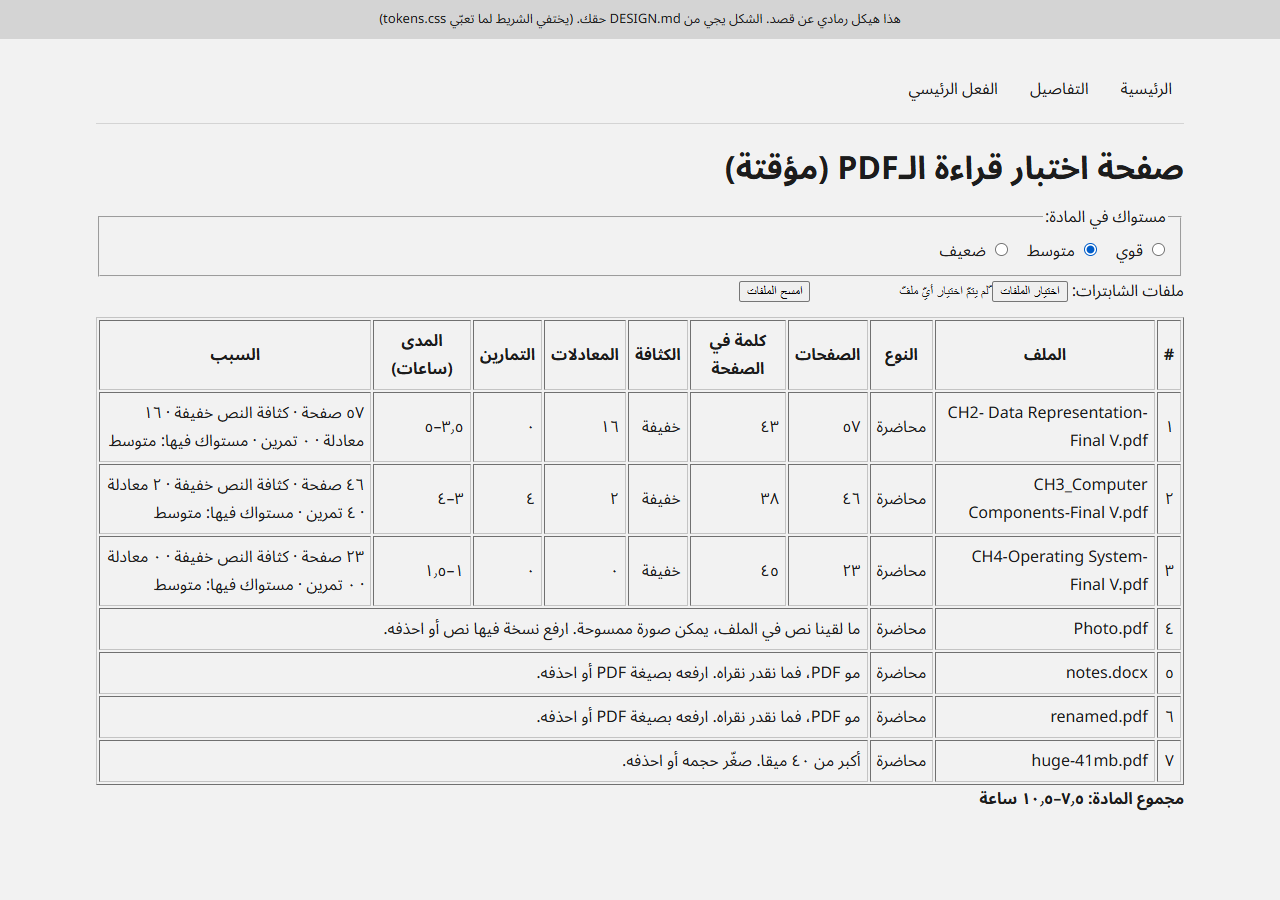
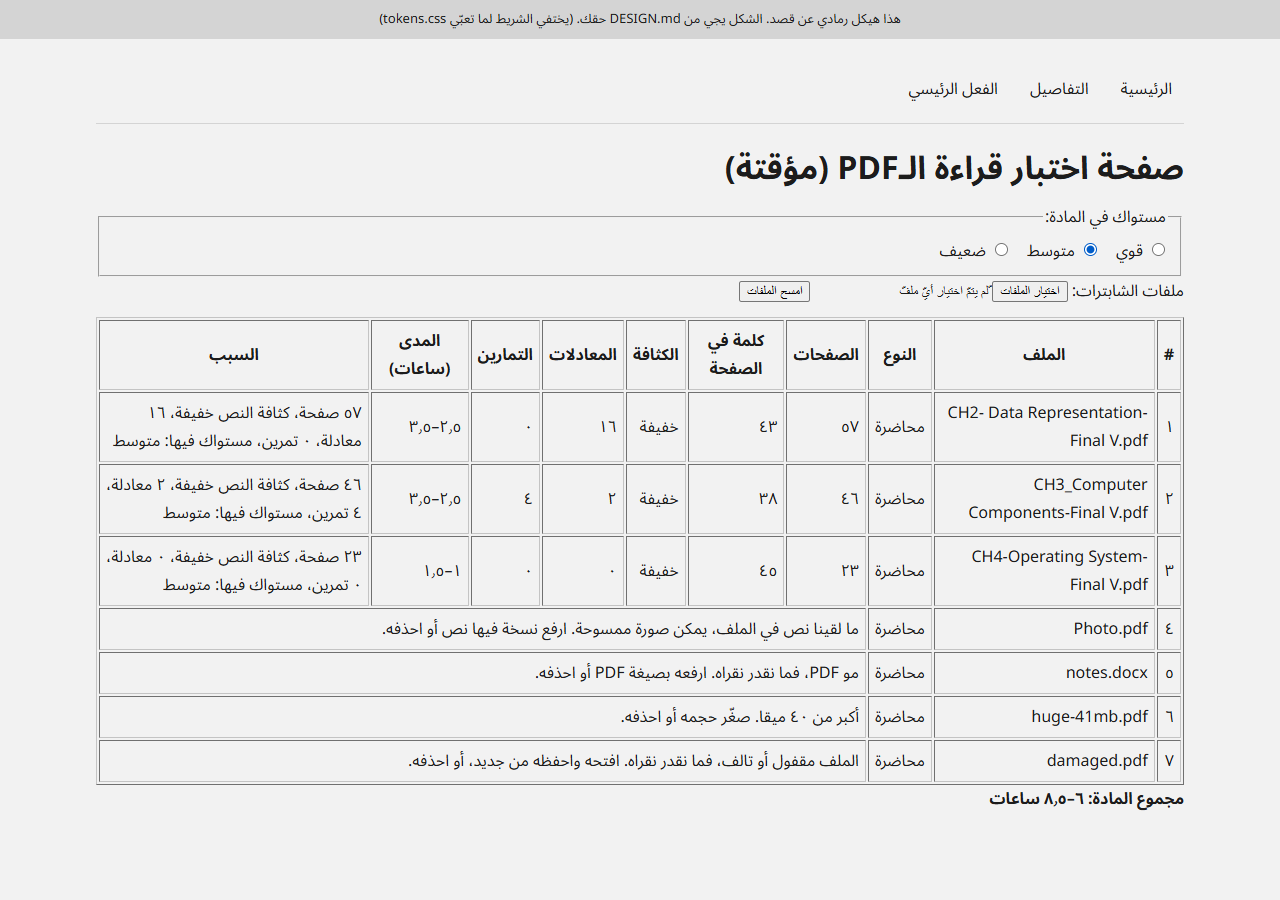
Version 1.2: Comma separator, locked-PDF message, exercise-file rule
- reason and §8 tooltip use «،» instead of «·» (next to a number the dot
  looks like the Arabic zero); mock.json reasons and AGENT_BRIEF example updated
- locked or damaged PDFs get their own message (strings.js, HANDOFF.md §4 and §8)
- exercise-file rule: «ex» only at the start of the name or as a whole word,
  so index.pdf no longer matches; tests for both cases
- CLAUDE.md: tag and push every version

diff --git a/web/src/lib/strings.js b/web/src/lib/strings.js
@@ -10,9 +10,7 @@ export const FILE_ERROR = {
   not_pdf: 'مو PDF، فما نقدر نقراه. ارفعه بصيغة PDF أو احذفه.',
   too_big: 'أكبر من ٤٠ ميقا. صغّر حجمه أو احذفه.',
   no_text: 'ما لقينا نص في الملف، يمكن صورة ممسوحة. ارفع نسخة فيها نص أو احذفه.',
-  // A damaged or password-protected PDF has no text of its own in §8 yet.
-  // Until it does, it uses the §8 "file error under the field" text.
-  unreadable: 'فيه ملف ما نقدر نقراه. أعد رفعه أو احذفه، وبعدها احفظ.',
+  unreadable: 'الملف مقفول أو تالف، فما نقدر نقراه. افتحه واحفظه من جديد، أو احذفه.', // password-protected or damaged
 };
 
 // §8: the loading text. {ن} is the number of files; the noun follows Arabic number agreement.
@@ -20,8 +18,9 @@ export const loadingText = (count, countText) =>
   `نقرأ ${countText} ${count >= 3 && count <= 10 ? 'ملفات' : 'ملف'} ونحسب وقت مذاكرتك...`;
 
 // The reason shown with each chapter estimate (same shape as mock.json and the §8 tooltip lines).
+// Parts are separated with «،», never a middle dot: next to a number the dot looks like the Arabic zero «٠».
 export const reasonText = ({ pages, density, equations, exercises, level }) =>
-  `${pages} صفحة · كثافة النص ${DENSITY_LABEL[density]} · ${equations} معادلة · ${exercises} تمرين · مستواك فيها: ${LEVEL_LABEL[level]}`;
+  `${pages} صفحة، كثافة النص ${DENSITY_LABEL[density]}، ${equations} معادلة، ${exercises} تمرين، مستواك فيها: ${LEVEL_LABEL[level]}`;
 
 export const HOURS_UNIT = (hi) => (hi > 10 ? 'ساعة' : 'ساعات');
 

diff --git a/web/src/lib/pdf.test.js b/web/src/lib/pdf.test.js
@@ -40,10 +40,25 @@ describe('checkFile', () => {
 
 describe('chapterKind', () => {
   it('marks exercise files by name', () => {
-    expect(chapterKind('exercises-sheet.pdf')).toBe('exercises');
-    expect(chapterKind('HW3.pdf')).toBe('exercises');
-    expect(chapterKind('تمارين الفصل ٢.pdf')).toBe('exercises');
-    expect(chapterKind('chapter1.pdf')).toBe('lecture');
+    for (const name of [
+      'ex1.pdf',
+      'exercises.pdf',
+      'hw2.pdf',
+      'sheet3.pdf',
+      'تمارين.pdf',
+      'exercises-sheet.pdf',
+      'HW3.pdf',
+      'تمارين الفصل ٢.pdf',
+      'ch2-ex3.pdf', // «ex» as a whole word in the middle
+      'Ch2 EX.pdf',
+    ]) {
+      expect(chapterKind(name), name).toBe('exercises');
+    }
+  });
+  it('does not mark «ex» inside another word', () => {
+    for (const name of ['index.pdf', 'chapter1.pdf', 'lexical-analysis.pdf', 'Complex Numbers.pdf']) {
+      expect(chapterKind(name), name).toBe('lecture');
+    }
   });
 });
 

diff --git a/web/src/lib/pdf.js b/web/src/lib/pdf.js
@@ -18,8 +18,9 @@ const FRACTION = /[0-9٠-٩]\s*\/\s*[0-9٠-٩]/;
 const EXERCISE_HEADING =
   /^(?:exercises?|examples?|problems?|(?:ال)?(?:تمرين|تمارين|مثال|أمثلة|سؤال|أسئلة))(?=$|[\s\d٠-٩:.)\-–])/i;
 
-// A file whose name matches this is an exercise file (HANDOFF.md §7 rule 6).
-const EXERCISE_FILE_NAME = /ex|hw|sheet|تمار/i;
+// An exercise file (HANDOFF.md §7 rule 6): the name starts with «ex» (ex1, exercises), has «ex» as a
+// whole word (ch2-ex3: not between two letters, so index.pdf does not match), or contains hw, sheet or تمار.
+const EXERCISE_FILE_NAME = /^ex|(?<!\p{L})ex(?!\p{L})|hw|sheet|تمار/iu;
 
 // ---------- pure helpers ----------
 

diff --git a/web/src/features/estimate/estimate.test.js b/web/src/features/estimate/estimate.test.js
@@ -34,7 +34,7 @@ describe('the formula', () => {
 
   it('writes the reason in Arabic digits with the level', () => {
     expect(estimateChapter(metrics, 'weak').reason).toBe(
-      '٣٧ صفحة · كثافة النص خفيفة · ١٢ معادلة · ٥ تمرين · مستواك فيها: ضعيف',
+      '٣٧ صفحة، كثافة النص خفيفة، ١٢ معادلة، ٥ تمرين، مستواك فيها: ضعيف',
     );
   });
 });

diff --git a/HANDOFF.md b/HANDOFF.md
@@ -34,6 +34,7 @@
 | ملف مو PDF | الـchip يصير خطأ، ومعه «أعد الرفع» و«احذفه وكمّل». ما يتحفظ شي لين ينحل |
 | ملف أكبر من 40MB | نفس السلوك، بالرسالة حقته |
 | PDF ممسوح ما فيه نص **[?] ما ينعرض في الـprototype** | نفس السلوك، بالرسالة حقته |
+| PDF مقفول بكلمة سر أو تالف | نفس السلوك، بالرسالة حقته |
 | وصل ٦ مواد | زر الإضافة يتعطل، وتطلع رسالة الحد |
 | ما فيه ولا مادة | زر «خلصت، رتّب جدولي» معطّل، والزر الأساسي يصير «+ أضف أول مادة» |
 | أرقام التفضيلات غلط | رسالة داخل الـpopup، والجدول ما يتولد |
@@ -61,7 +62,7 @@
 3. المادة ما تتحفظ إلا إذا: الاسم مو فاضي، وفيه شابتر سليم واحد على الأقل، وما فيه ملف خطأ، والمستوى مختار، والتاريخ من بكرة وطالع.
 4. أقصى عدد ٦ مواد، ولكل مادة لون ثابت بترتيب إضافتها.
 5. **التقدير:** `base = pages×0.0375 + {low:0, mid:0.4, high:0.8}[density] + equations×0.03 + exercises×0.12`. وبعدها `lo = max(0.5, round½(base × level))`، و`hi = round½(lo × 1.4)`. ومعامل المستوى: قوي ×0.75، ومتوسط ×1، وضعيف ×1.4. **[?] الأوزان مبدئية وتحتاج معايرة.**
-6. ملف اسمه يطابق `ex|hw|sheet|تمار` يُعتبر ملف تمارين **[?]**.
+6. ملف يُعتبر ملف تمارين إذا اسمه يبدأ بـ`ex`، أو فيه `ex` ككلمة لحالها (مثل `ch2-ex3.pdf`)، أو فيه `hw` أو `sheet` أو `تمار`. أمثلة: `ex1.pdf`، `exercises.pdf`، `hw2.pdf`، `sheet3.pdf`، `تمارين.pdf`. أما `index.pdf` فمو ملف تمارين.
 7. الجدول يستخدم `hiHours`، وأيامه تبدأ من بكرة ولين آخر اختبار.
 8. اليوم يبدأ من `startTime`، ويتقسم لجلسة ثم بريك ثم جلسة... بعدد `breaks + 1` جلسات، ومدة كل جلسة `hoursPerDay ÷ (breaks+1)`.
 9. كل جلسة تروح للمادة اللي اختبارها أقرب وباقي لها شابترات، والشابترات بالترتيب.
@@ -80,6 +81,7 @@
 | مو PDF (على الملف) | مو PDF، فما نقدر نقراه. ارفعه بصيغة PDF أو احذفه. |
 | أكبر من 40MB | أكبر من ٤٠ ميقا. صغّر حجمه أو احذفه. |
 | PDF ممسوح [?] | ما لقينا نص في الملف، يمكن صورة ممسوحة. ارفع نسخة فيها نص أو احذفه. |
+| PDF مقفول أو تالف | الملف مقفول أو تالف، فما نقدر نقراه. افتحه واحفظه من جديد، أو احذفه. |
 | بدون مستوى | ما اخترت مستواك. اختر واحد عشان نضبط الساعات على قدّك. |
 | التاريخ | موعد الاختبار ناقص أو قبل بكرة. اختر تاريخ من بكرة وطالع. |
 | التحميل | نقرأ {ن} ملفات ونحسب وقت مذاكرتك... |
@@ -94,7 +96,7 @@
 | جدول فاضي | ما فيه أيام قبل اختباراتك. أقرب اختبار عندك بكرة، فما بقى وقت نرتّب فيه جدول. ارجع وتأكد من مواعيد الاختبارات. |
 | تلميح التبديل | اختر جلسة، وبعدها اختر الجلسة اللي تبي تبدّل معها |
 | تأكيد الحذف | تبدأ من جديد؟ بتنحذف كل موادك وجدولك، وما تقدر ترجّعها. |
-| Tooltip | {المادة} · شابتر {ن}: {lo}–{hi} ساعات / {صفحات} صفحة · كثافة النص {خفيفة/متوسطة/عالية} / {معادلات} معادلة · {تمارين} تمرين / مستواك فيها: {المستوى} |
+| Tooltip | {المادة}، شابتر {ن}: {lo}–{hi} ساعات / {صفحات} صفحة، كثافة النص {خفيفة/متوسطة/عالية} / {معادلات} معادلة، {تمارين} تمرين / مستواك فيها: {المستوى} |
 
 ## 9. أسئلة مفتوحة للـbackend
 1. **[?] وين ينقرا الـPDF؟** اقتراحنا على جهاز الطالب (pdf.js)، والملفات ما تطلع من جهازه. إذا انقرا على السيرفر، لازم سياسة خصوصية وحذف الملفات بعد التحليل.

diff --git a/AGENT_BRIEF.md b/AGENT_BRIEF.md
@@ -21,7 +21,7 @@ For each chapter PDF, extract:
 1. `pages`: the page count
 2. `density`: average words per page, bucketed into low (<120), mid (120–300), and high (>300)
 3. `equations`: the count of math symbols and equation-like lines (`= ∑ √ ∫ ≤ ≥ ^ π`, fractions)
-4. `exercises`: the count of "Exercise / Example / Problem / تمرين / مثال / سؤال" headings. A file whose name matches `ex|hw|sheet|تمار` counts as an exercise file
+4. `exercises`: the count of "Exercise / Example / Problem / تمرين / مثال / سؤال" headings. A file whose name starts with `ex`, has `ex` as a whole word (`ch2-ex3.pdf`), or contains `hw`, `sheet` or `تمار` counts as an exercise file (`index.pdf` does not)
 5. `level`: the student's level in the course: strong (×0.75), mid (×1.0), weak (×1.4)
 
 Starting formula, in hours (weights are placeholders to calibrate later; keep them in one config object):
@@ -30,7 +30,7 @@ base = pages*0.0375 + {low:0, mid:0.4, high:0.8}[density] + equations*0.03 + exe
 lo   = max(0.5, round_to_half(base * levelMultiplier))
 hi   = round_to_half(lo * 1.4)
 ```
-- Show the **range** `lo–hi` and the reason, for example «٣٠ صفحة · كثافة متوسطة · ١٢ معادلة · ٥ تمارين · مستواك: ضعيف».
+- Show the **range** `lo–hi` and the reason, for example «٣٠ صفحة، كثافة متوسطة، ١٢ معادلة، ٥ تمارين، مستواك: ضعيف».
 - If a PDF has no extractable text (a scan), show the file-error state from HANDOFF.md §8.
 - Use a client-side PDF library (for example pdf.js). The files must not leave the device.
 

diff --git a/CLAUDE.md b/CLAUDE.md
@@ -19,7 +19,8 @@ v1 decisions (approved 2026-11-24):
 - Estimate: 5 factors only (pages, words-per-page density, equations, exercises, level). Formula and weights
   are in HANDOFF.md §7 rule 5, all in ONE config object (`ESTIMATE_CONFIG` in `estimate.js`).
   Levels: weak ×1.4, mid ×1, strong ×0.75. The weights are placeholders, to calibrate later.
-- A file name matching `ex|hw|sheet|تمار` marks an exercise file.
+- A file name that starts with `ex`, has `ex` as a whole word, or contains `hw`, `sheet` or `تمار`
+  marks an exercise file (HANDOFF.md §7 rule 6; `index.pdf` does not match).
 - Scanned PDFs (no text) are rejected with the HANDOFF.md §8 text. No OCR in v1.
 - Uploads: PDF only, max 40 MB per file, no limit on the number of files. Max 6 courses, enforced in code.
 - Schedule: a weekly calendar with week arrows, using the **max** (`hiHours`) of each range, from tomorrow
@@ -111,6 +112,8 @@ Vercel (Hobby plan), project root = `web/`. No self-managed servers.
 - Never install a package version published in the last 7 days.
 - Commit names: each day's work is "Version N: ..." where N is the day number (Day 2 = Version 2).
   A small fix inside a version gets a decimal: "Version 1.1: ...", "Version 2.1: ...".
+  Tag every version commit with a matching annotated git tag (v1, v1.1, v2...) and push the commit
+  and the tag to GitHub (`git push origin main` and `git push origin <tag>`).
 
 ## Secrets
 - None are needed today. If any appear: environment variables only, never in code.
